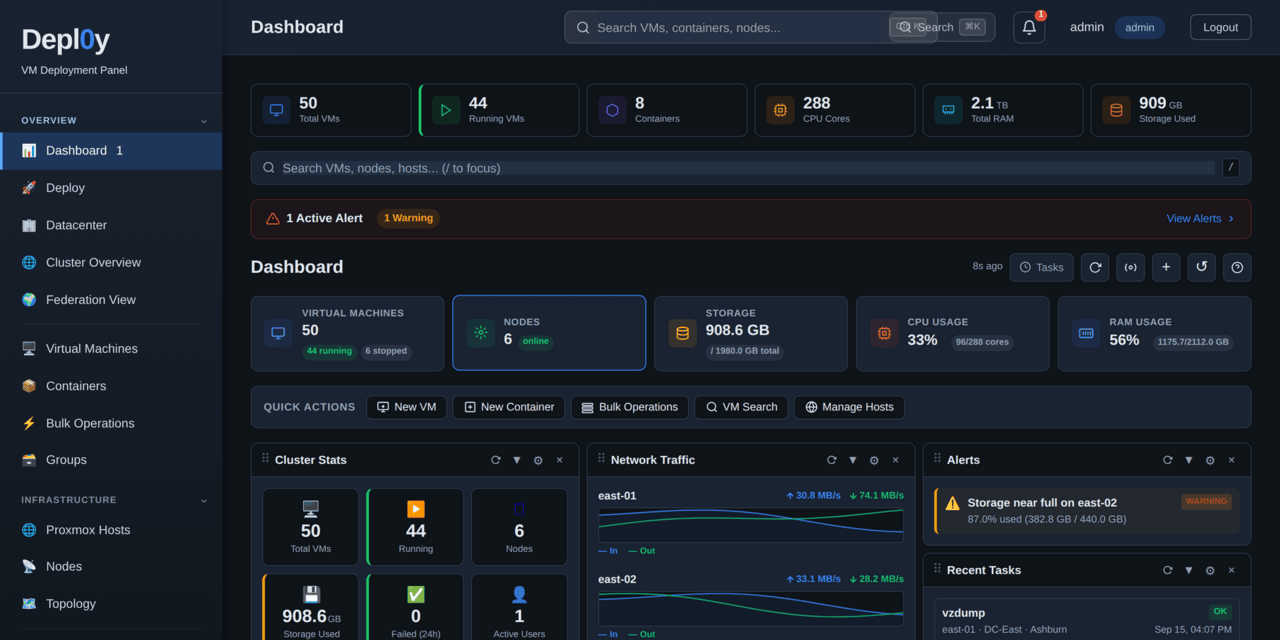
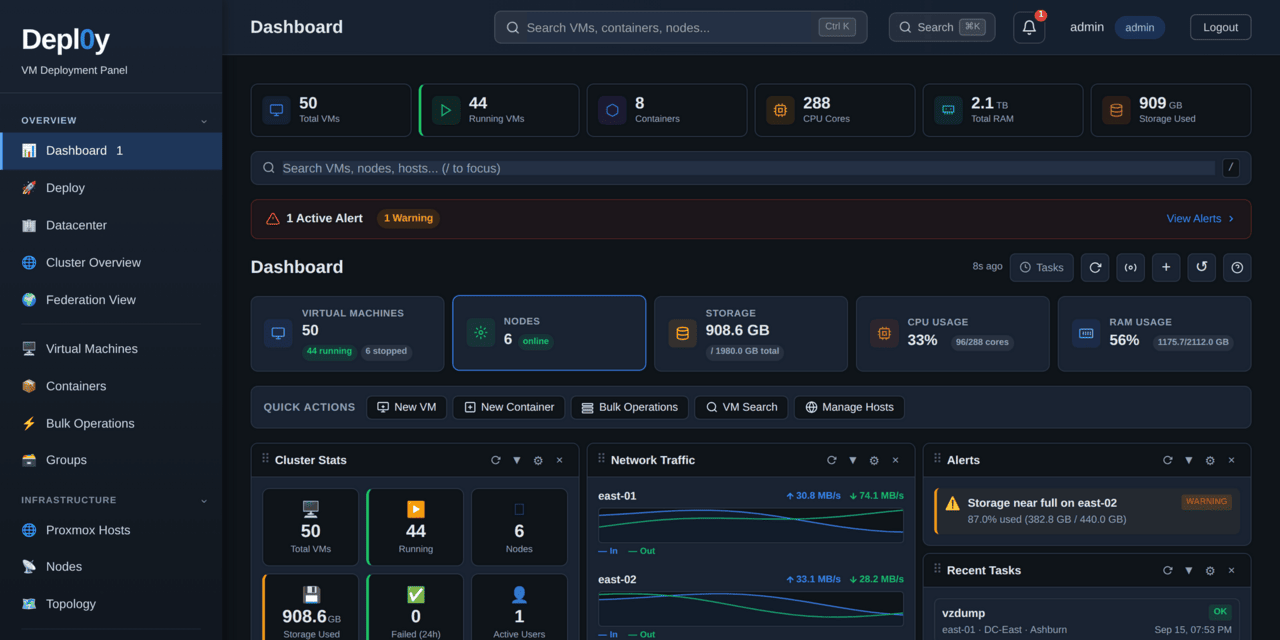
docs: regenerate the social preview from the v2.2.76 dashboard
The committed card was cropped from a pre-2.2.76 capture, so it carried the
header collision the last release fixed — the command palette button drawn on
top of the search field's "Ctrl K" hint. Uploading it would have published
that defect as the repository's social card everywhere the repo is shared.

Adds scripts/screenshots/build_social_preview.py so the card is derived from
docs/images/github/infrastructure-dashboard-dark.png rather than cropped by
hand, and can never drift from the gallery again. It checks the result against
GitHub's constraints (1280x640, under 1 MB) and fails if either is missed.

The field itself still has no API: re-confirmed against the live schema that
no GraphQL mutation and no UpdateRepositoryInput or REST repository field
touches it. Upload stays a web-UI action, documented in docs/github-about.md.

diff --git a/scripts/screenshots/build_social_preview.py b/scripts/screenshots/build_social_preview.py
@@ -1,0 +1,41 @@
+#!/usr/bin/env python3
+"""Regenerate docs/images/github/social-preview.png from the dashboard capture.
+
+    python3 scripts/screenshots/build_social_preview.py
+
+GitHub's social card is 1280x640 (2:1) and capped at 1 MB. It is cropped from
+the canonical dashboard screenshot rather than captured separately, so it can
+never drift from the gallery: regenerate the gallery, run this, and the card
+tracks it.
+
+The field itself has no API — see docs/github-about.md. This only produces the
+file; a maintainer uploads it through Settings -> General -> Social preview.
+"""
+import os
+import subprocess
+import sys
+
+REPO = os.path.abspath(os.path.join(os.path.dirname(__file__), "..", ".."))
+SRC = os.path.join(REPO, "docs/images/github/infrastructure-dashboard-dark.png")
+OUT = os.path.join(REPO, "docs/images/github/social-preview.png")
+TMP = "/tmp/_social-preview.png"
+LIMIT = 1024 * 1024
+
+if not os.path.exists(SRC):
+    sys.exit(f"missing source capture: {SRC}")
+
+# Width-fit to 1280, then take the top 640 — the header, the summary tiles and
+# the first row of panels, which is what reads at social-card size.
+subprocess.run(["convert", SRC, "-resize", "1280x", "-gravity", "north",
+                "-crop", "1280x640+0+0", "+repage", "-strip", TMP], check=True)
+subprocess.run(["pngquant", "--quality=70-92", "--force", "--output", OUT, TMP],
+               check=True)
+os.remove(TMP)
+
+size = os.path.getsize(OUT)
+dims = subprocess.run(["identify", "-format", "%wx%h", OUT],
+                      capture_output=True, text=True, check=True).stdout
+print(f"wrote {OUT}")
+print(f"  {dims}, {size / 1024:.1f} KB", "OK" if size < LIMIT else "OVER 1 MB LIMIT")
+if dims != "1280x640" or size >= LIMIT:
+    sys.exit("social preview does not meet GitHub's requirements")

diff --git a/docs/github-about.md b/docs/github-about.md
@@ -73,9 +73,16 @@ there is room for them again if wanted (GitHub allows 20).
 
 ## Social preview image
 
-Use **`docs/images/github/social-preview.png`** — already cropped to GitHub's
-recommended 1280×640 (2:1) from the real dashboard screenshot, and well under
-the 1 MB limit.
+Use **`docs/images/github/social-preview.png`** — 1280×640 (2:1), GitHub's
+recommended size, and well under the 1 MB limit.
+
+It is cropped from `infrastructure-dashboard-dark.png` rather than captured
+separately, so regenerate it whenever the gallery is regenerated — otherwise
+the card keeps showing an older build:
+
+```bash
+python3 scripts/screenshots/build_social_preview.py
+```
 
 There is no API for this field: the GraphQL schema exposes `openGraphImageUrl`
 and `usesCustomOpenGraphImage` as read-only, and no mutation sets them. It has
@@ -100,6 +107,9 @@ gh api graphql -f query='{ repository(owner:"agit8or1", name:"Depl0y")
 - [x] Website cleared until a real project site resolves — applied 2026-09-15
 - [x] Topics set to the list above — applied 2026-09-15
 - [ ] Social preview uploaded — **manual only** (no API); the correctly sized
-      image is committed at `docs/images/github/social-preview.png`
+      image is committed at `docs/images/github/social-preview.png`.
+      Regenerated 2026-09-15 from the v2.2.76 dashboard capture; the previous
+      file predated the header layout fix and showed the overlapping search
+      controls, so do not upload a copy taken before that date.
 - [x] Walkthrough video attached to the v2.2.75 release and linked from the
       README — applied 2026-09-15
